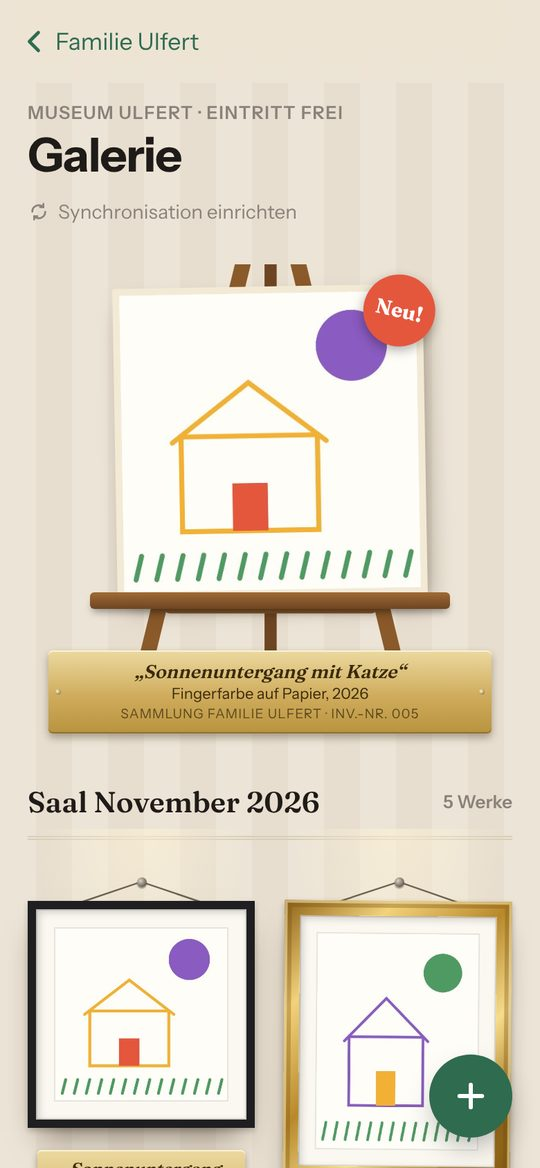
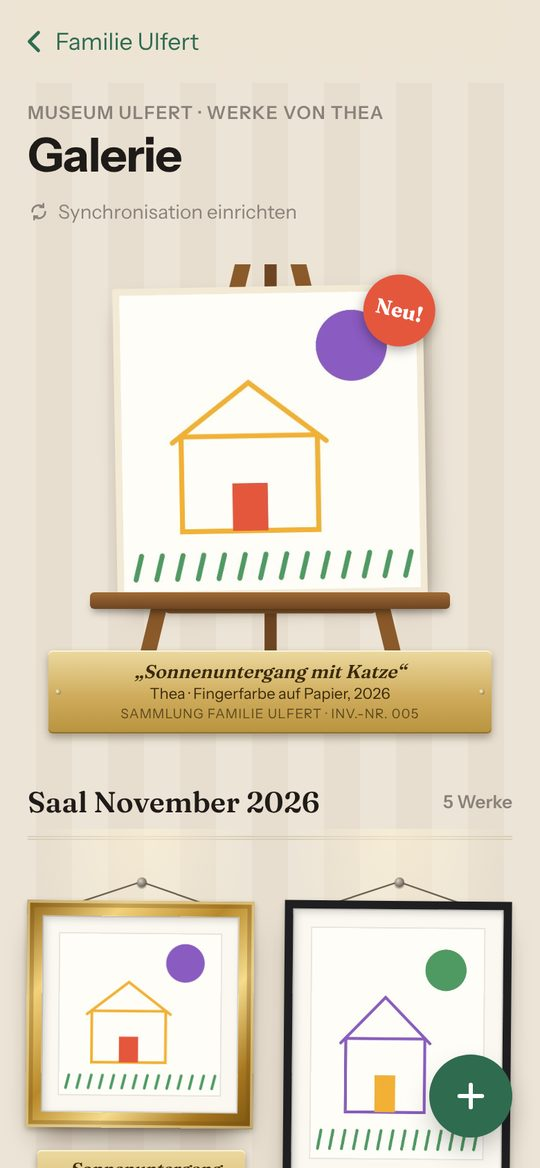
Galerie: Thea als Künstlerin (#9)
* Startseite „Familie Ulfert“ mit Kochbuch und Platzhaltern für weitere Apps

Eigene PWA als gemeinsamer Einstieg: Kacheln aus apps.json, Kochbuch live,
Haushalt sowie Aufgaben & Taschengeld als Platzhalter. Der Deploy-Workflow
baut eingebundene Apps aus ihren Repositories mit und veröffentlicht sie als
Unterordner, damit sie in der installierten App im Vollbild bleiben.

Claude-Session: https://claude.ai/code/session_01VdEPYe4BjZHJpkXfuZpkD9

* README: Einstellungen und Rezepte in der Familien-App neu einrichten

Installierte Web-Apps haben auf dem iPhone getrennte Speicher, auch bei
gleicher Adresse. Die frühere Aussage, die Daten würden geteilt, war falsch.

Claude-Session: https://claude.ai/code/session_01VdEPYe4BjZHJpkXfuZpkD9

* Oberfläche als Familien-App-Store: Start, Entdecken und App-Detailseiten

Startbildschirm mit App-Symbolen, „Entdecken“ mit Highlight-Karte und
Listen, Detailseiten mit Bildschirmfotos und Funktionen. „Laden“ und
„Entfernen“ legen Apps pro Gerät auf den Startbildschirm. apps.json um
Untertitel, Beschreibung, Funktionen, Kategorie und Bilder erweitert.

Claude-Session: https://claude.ai/code/session_01VdEPYe4BjZHJpkXfuZpkD9

* Dashboard als Startseite, Apps in eigenem Reiter

Drei Reiter: Übersicht (Dashboard aus Karten: Diese Woche mit KW, unsere
Apps, Demnächst, Hinweis), Apps (Symbole) und Entdecken (Store). Karten
lassen sich in src/dashboard.ts ergänzen. Tests nur aus tests/, damit
geklonte Apps in .apps-src nicht mitlaufen.
[…]

diff --git a/src/galerie/museum.ts b/src/galerie/museum.ts
@@ -3,6 +3,9 @@
 import { esc } from '../shared/html';
 import type { Werk } from './db';
 
+/** Die Künstlerin – steht auf jeder Plakette */
+export const KUENSTLERIN = 'Thea';
+
 export const TECHNIKEN = [
   'Buntstift',
   'Wachsmalstift',
@@ -48,12 +51,13 @@ export function technikZeile(w: Pick<Werk, 'technik' | 'datum'>): string {
 
 /** klein: an der Wand (knapp), mittel: Staffelei, gross: Großansicht mit Notiz */
 export function plakette(w: Werk, inv: string | undefined, groesse: 'klein' | 'mittel' | 'gross' = 'klein'): string {
-  const sammlung = groesse === 'klein' ? (inv ? `Inv.-Nr. ${inv}` : '') : `Sammlung Familie Ulfert${inv ? ` · Inv.-Nr. ${inv}` : ''}`;
+  const nr = inv ? `<span class="inv">Inv.-Nr. ${inv}</span>` : '';
+  const unten = groesse === 'klein' ? `${KUENSTLERIN}${nr ? ` · ${nr}` : ''}` : `Sammlung Familie Ulfert${nr ? ` · ${nr}` : ''}`;
   return `<div class="plakette plakette-${groesse}" lang="de">
       <strong>${w.titel ? `„${esc(w.titel)}“` : 'Ohne Titel'}</strong>
-      <span>${esc(technikZeile(w))}</span>
+      <span>${groesse === 'klein' ? '' : `${KUENSTLERIN} · `}${esc(technikZeile(w))}</span>
       ${groesse === 'gross' && w.notiz ? `<span class="plakette-notiz">${esc(w.notiz)}</span>` : ''}
-      ${sammlung ? `<small>${esc(sammlung)}</small>` : ''}
+      <small>${unten}</small>
     </div>`;
 }
 
@@ -102,7 +106,7 @@ export function leereWand(): string {
   return `<div class="leere-wand">
       <div class="exponat" style="--neigung:-1deg">
         <span class="aufhaengung">${DRAHT}<span class="rahmen rahmen-gold"><span class="passepartout"><span class="leer-bild">?</span></span></span></span>
-        <div class="plakette"><strong>Hier könnte Ihr Meisterwerk hängen</strong><span>Mit + ein Bild fotografieren</span><small>Sammlung Familie Ulfert</small></div>
+        <div class="plakette"><strong>Hier könnte Ihr Meisterwerk hängen</strong><span>Mit + ein Bild von ${KUENSTLERIN} fotografieren</span><small>Künstlerin: ${KUENSTLERIN}</small></div>
       </div>
     </div>`;
 }

diff --git a/src/galerie/main.ts b/src/galerie/main.ts
@@ -8,7 +8,7 @@ import { icon } from '../icons';
 import { backBar, esc, writeJson } from '../shared/html';
 import { db, neueId, type Werk } from './db';
 import { dataUrl, prepare } from './image';
-import { exponat, gerahmt, inventarNummern, leereWand, plakette, staffelei, TECHNIKEN } from './museum';
+import { exponat, gerahmt, inventarNummern, KUENSTLERIN, leereWand, plakette, staffelei, TECHNIKEN } from './museum';
 import { AuthError, einrichten, letzteSync, synchronisieren, trennen, zugang } from './sync';
 
 const root = document.querySelector<HTMLDivElement>('#app')!;
@@ -32,7 +32,7 @@ function shell(): void {
     <main class="view sub-view">
       ${backBar()}
       <header class="large-head">
-        <p class="eyebrow">Museum Ulfert · Eintritt frei</p>
+        <p class="eyebrow">Museum Ulfert · Werke von ${KUENSTLERIN}</p>
         <h1>Galerie</h1>
         <p class="sync-line" id="sync"></p>
       </header>
@@ -154,7 +154,7 @@ function sheetForm(w: Partial<Werk>, vorschau: string, neu: boolean): void {
         </select></div>
       <div class="field"><label class="label" for="datum">Entstanden am</label>
         <input class="input" id="datum" name="datum" type="date" value="${esc(w.datum ?? isoDate(new Date()))}" max="${isoDate(new Date())}" /></div>
-      <div class="field"><label class="label" for="notiz">Was die Künstlerin dazu sagt</label>
+      <div class="field"><label class="label" for="notiz">Was ${KUENSTLERIN} dazu sagt</label>
         <textarea class="input" id="notiz" name="notiz" rows="2" placeholder="Was sie dazu erzählt hat …">${esc(w.notiz ?? '')}</textarea></div>
     </form>`;
   sheet.showModal();

diff --git a/src/galerie/galerie.css b/src/galerie/galerie.css
@@ -296,6 +296,10 @@ body {
 .plakette-gross small {
   font-size: 10.5px;
 }
+.plakette small .inv {
+  font-size: inherit;
+  white-space: nowrap;
+}
 .plakette-notiz {
   margin-top: 4px;
   font-style: italic;
